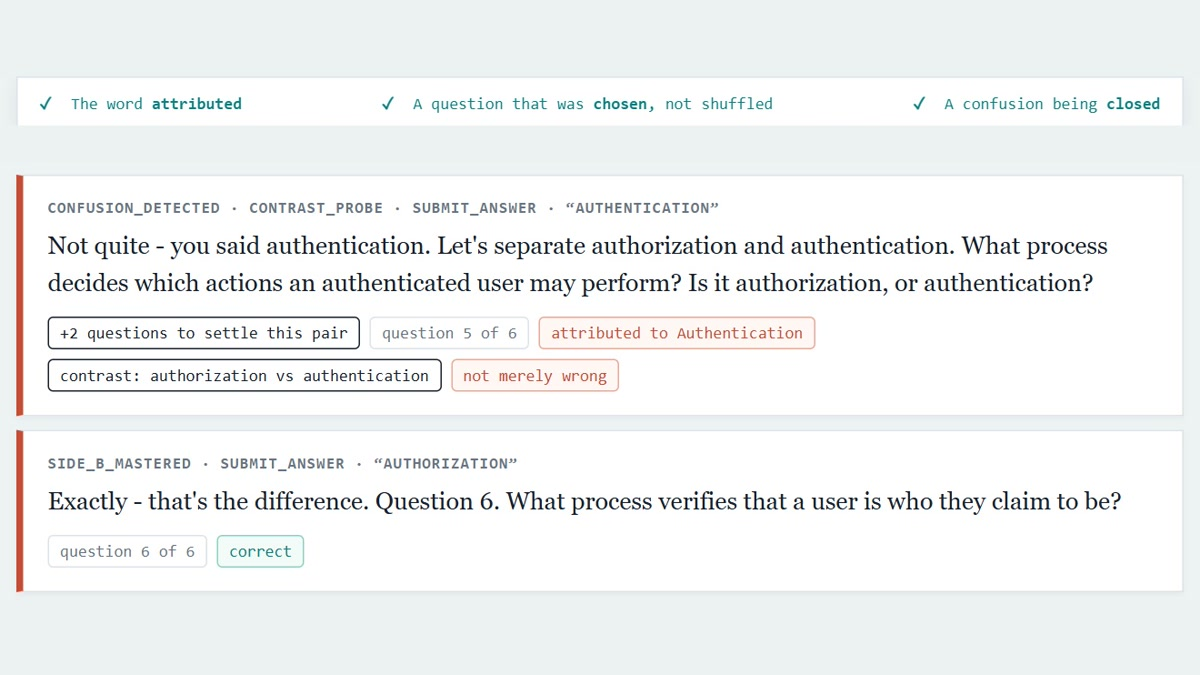
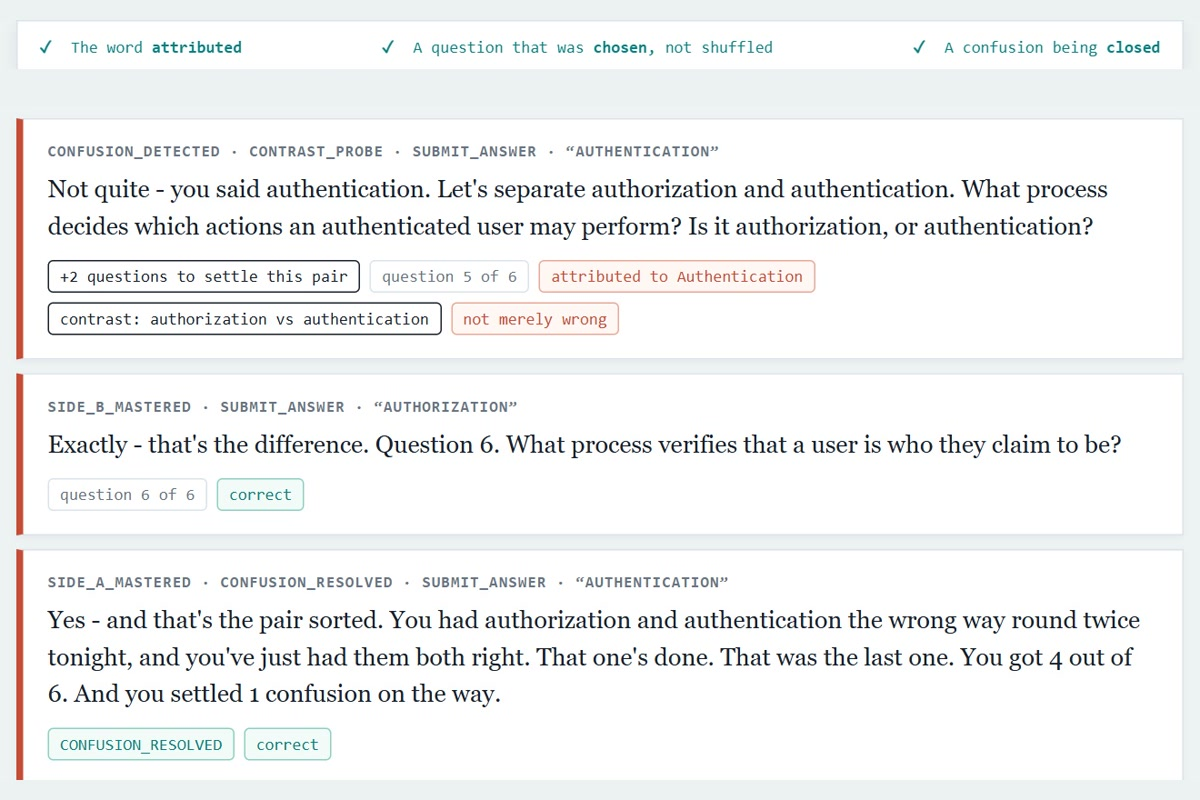
Cut the thumbnail at 3:2, which is what the form asks for
It was 16:9. The upload panel says 3:2, and the extra height is not padding:
it fits the third card in, so the picture carries the whole arc - the confusion
detected, one side mastered, the pair closed - instead of stopping halfway.

Claude-Session: https://claude.ai/code/session_01MuKgs4zQqPTSRBfmpDqkyc

diff --git a/DEVPOST.md b/DEVPOST.md
@@ -12,7 +12,8 @@ Status of the two things the form needs that are not text:
   demonstrably that.
 - **Public repository** — <https://github.com/jeroenzwiers/alexa-study-coach>,
   MIT, reachable without signing in, and linked from the video description.
-- **Thumbnail** — `preview/devpost-thumbnail.jpg`, 1200×675. Not a logo: it is a
+- **Thumbnail** — `preview/devpost-thumbnail.jpg`, 1200×800 (the 3:2
+  Devpost asks for). Not a logo: it is a
   frame of the running thing, showing the one card that carries the whole claim
   — a wrong answer attributed to a named concept, the contrast question chosen
   rather than shuffled, and all three watch-for items ticked.
